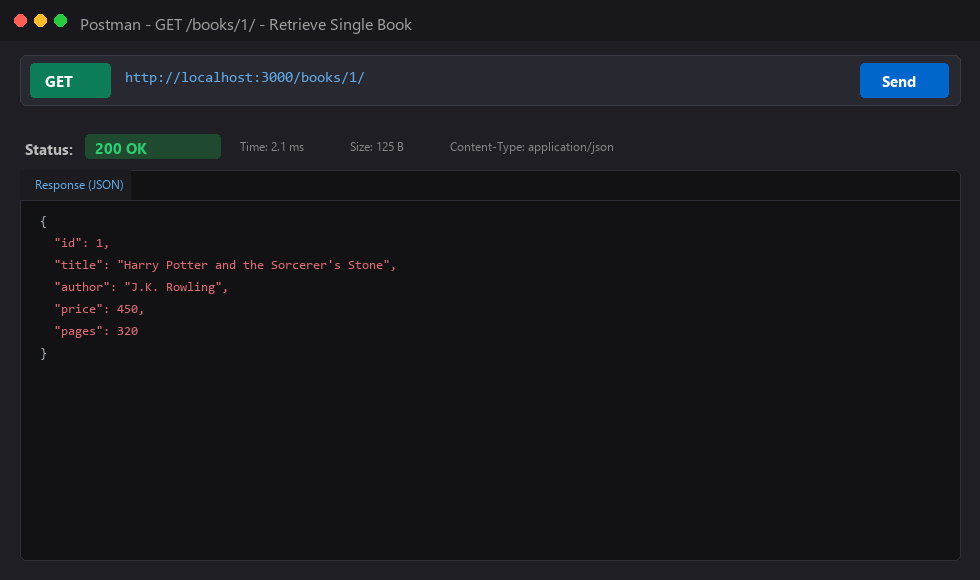
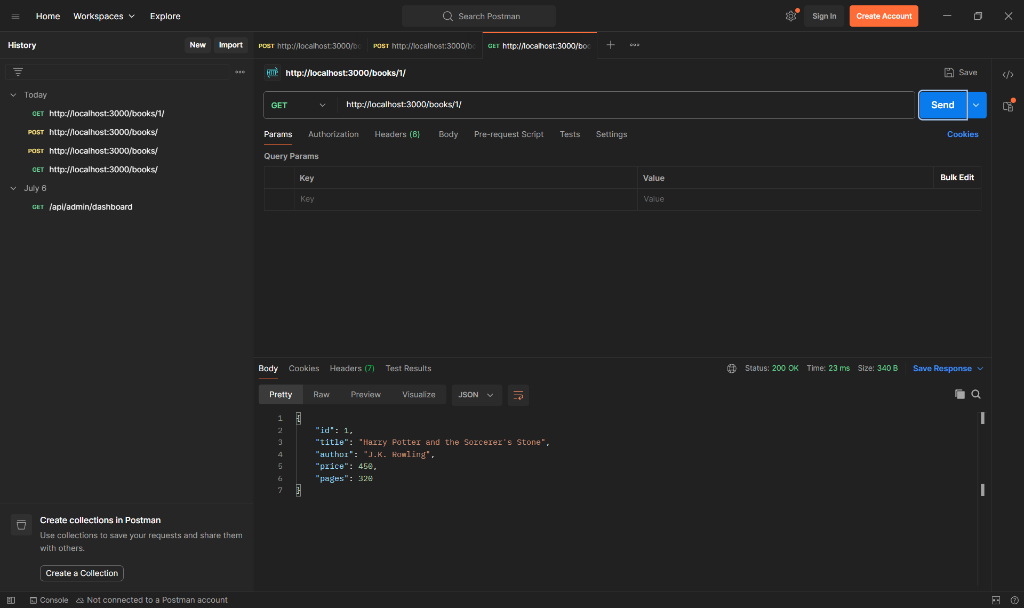
docs(lab-02): update with user's verified Postman screenshots for GET, POST, and DELETE

diff --git a/lab-02/server.js b/lab-02/server.js
@@ -88,8 +88,19 @@ const getDB = async () => {
   return db;
 };
 
-// Middleware to parse JSON request bodies
+// Middleware to parse JSON and text request bodies
 app.use(express.json());
+app.use(express.text({ type: ['text/*', 'application/*'] }));
+app.use((req, res, next) => {
+  if (typeof req.body === 'string' && req.body.trim().startsWith('{')) {
+    try {
+      req.body = JSON.parse(req.body);
+    } catch (err) {
+      // ignore parse error if not valid JSON
+    }
+  }
+  next();
+});
 
 // Middleware to ensure DB is initialized before executing queries
 app.use(async (req, res, next) => {
